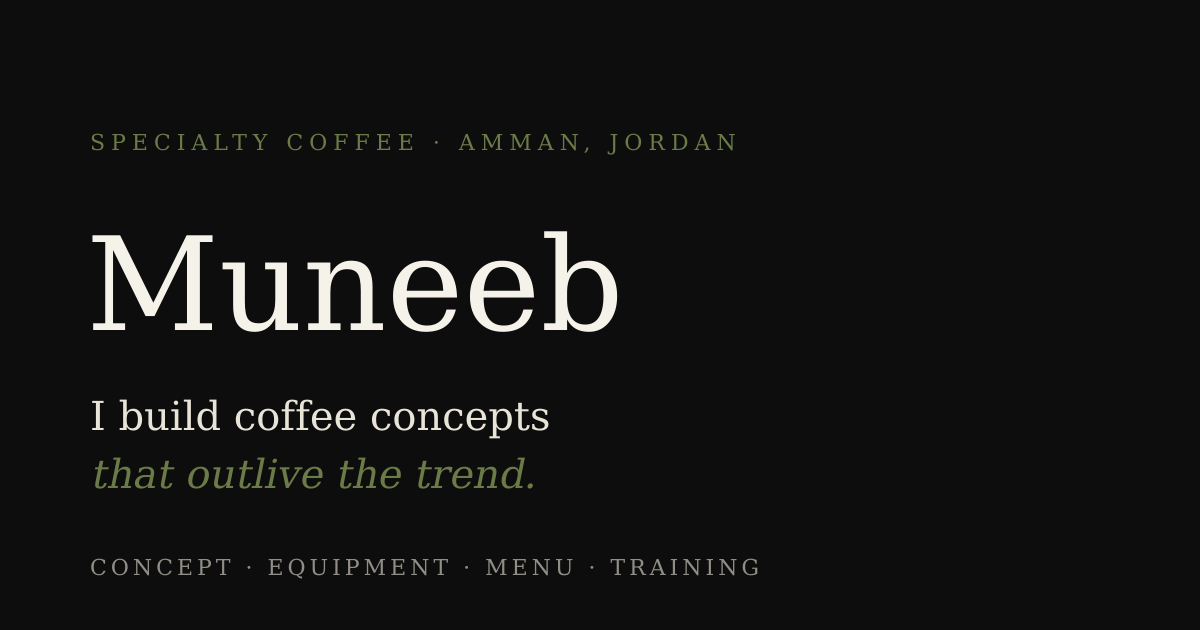
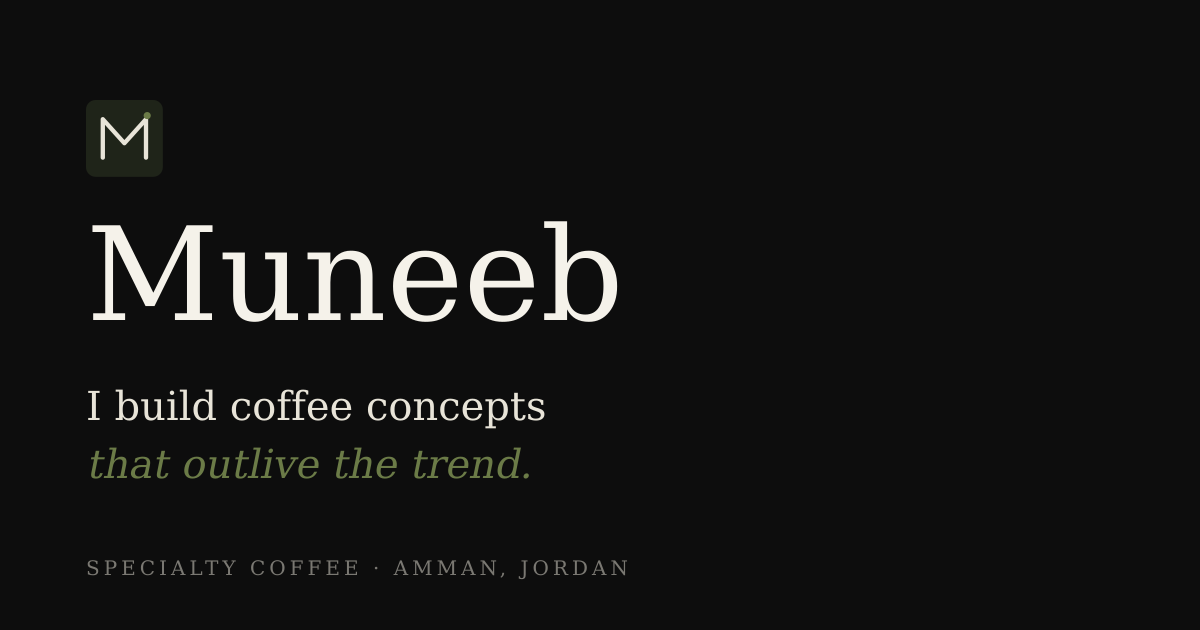
Signature moments: live status, scroll-pinned Approach, real identity
- StatusPill: live "At the bar / Replying in ~2h / Replying tomorrow"
  computed from Amman time, with a pulse on at-bar — the differentiator
- Approach: full sticky scroll-pinned narrative; 5 steps cross-fade as
  the section scrolls (Apple-style), with a deep-olive visual scene,
  big number, italic step title, dots, and a progress bar
- Wordmark + Monogram identity: custom drawn SVG mark (deep-olive
  rounded square, sand outline M, sage accent dot) paired with a
  "Munee[b]" wordmark where the final 'b' is sage italic
- Nav, favicon, and OG image all updated to use the new mark

https://claude.ai/code/session_01JqicGaHiKrR2BpaGBGhPka

diff --git a/components/Approach.tsx b/components/Approach.tsx
@@ -1,43 +1,161 @@
 'use client';
 
+import { useRef, useState } from 'react';
 import { useTranslations } from 'next-intl';
-import Reveal from './Reveal';
+import {
+  AnimatePresence,
+  motion,
+  useMotionValueEvent,
+  useScroll,
+  useTransform,
+} from 'framer-motion';
 
 const steps = ['concept', 'equipment', 'menu', 'training', 'launch'] as const;
+const EASE = [0.22, 1, 0.36, 1] as const;
 
 export default function Approach() {
   const t = useTranslations('approach');
+  const ref = useRef<HTMLDivElement>(null);
+  const { scrollYProgress } = useScroll({
+    target: ref,
+    offset: ['start start', 'end end'],
+  });
+  const [active, setActive] = useState(0);
+
+  useMotionValueEvent(scrollYProgress, 'change', (p) => {
+    const i = Math.min(
+      steps.length - 1,
+      Math.max(0, Math.floor(p * steps.length))
+    );
+    if (i !== active) setActive(i);
+  });
+
+  const progress = useTransform(scrollYProgress, [0, 1], ['0%', '100%']);
 
   return (
-    <section className="bg-bone py-24 md:py-32">
-      <div className="container-x">
-        <Reveal>
-          <p className="eyebrow mb-5">{t('eyebrow')}</p>
-          <h2 className="max-w-3xl font-serif text-h2 font-light text-charcoal">
-            {t('title')}{' '}
-            <span className="italic text-sage">{t('title_accent')}</span>
-          </h2>
-          <p className="mt-6 max-w-xl text-base leading-relaxed text-charcoal/70">
-            {t('intro')}
-          </p>
-        </Reveal>
+    <section
+      ref={ref}
+      className="relative bg-bone"
+      style={{ height: `${steps.length * 100}vh` }}
+    >
+      <div className="sticky top-0 flex h-screen items-center overflow-hidden">
+        <div className="container-x grid w-full items-center gap-10 md:grid-cols-12 md:gap-12">
+          {/* Text column */}
+          <div className="md:col-span-5">
+            <p className="eyebrow mb-5">{t('eyebrow')}</p>
+            <h2 className="font-serif text-h2 font-light text-charcoal">
+              {t('title')}{' '}
+              <span className="italic text-sage">{t('title_accent')}</span>
+            </h2>
+            <p className="mt-6 max-w-md text-base leading-relaxed text-charcoal/65">
+              {t('intro')}
+            </p>
 
-        <div className="mt-16 border-t border-charcoal/10">
-          {steps.map((step, i) => (
-            <Reveal key={step} delay={i * 0.06}>
-              <div className="group grid grid-cols-1 items-baseline gap-4 border-b border-charcoal/10 py-8 transition-colors duration-300 hover:bg-charcoal/[0.02] md:grid-cols-12 md:gap-8 md:py-10">
-                <span className="font-serif text-3xl font-light text-sage md:col-span-1 md:text-4xl">
-                  {String(i + 1).padStart(2, '0')}
-                </span>
-                <h3 className="font-serif text-2xl font-normal text-charcoal md:col-span-3 md:text-3xl">
-                  {t(`${step}_title`)}
-                </h3>
-                <p className="max-w-xl text-base leading-relaxed text-charcoal/70 md:col-span-8">
-                  {t(`${step}_desc`)}
-                </p>
+            <div className="relative mt-10 h-44 md:h-48">
+              <AnimatePresence mode="wait">
+                <motion.div
+                  key={active}
+                  className="absolute inset-0"
+                  initial={{ opacity: 0, y: 18 }}
+                  animate={{ opacity: 1, y: 0 }}
+                  exit={{ opacity: 0, y: -18 }}
+                  transition={{ duration: 0.45, ease: EASE }}
+                >
+                  <p className="font-sans text-[11px] uppercase tracking-eyebrow text-charcoal/40">
+                    {String(active + 1).padStart(2, '0')} /{' '}
+                    {String(steps.length).padStart(2, '0')}
+                  </p>
+                  <h3 className="mt-2 font-serif text-3xl font-normal text-charcoal md:text-4xl">
+                    {t(`${steps[active]}_title`)}
+                  </h3>
+                  <p className="mt-3 max-w-md text-base leading-relaxed text-charcoal/70">
+                    {t(`${steps[active]}_desc`)}
+                  </p>
+                </motion.div>
+              </AnimatePresence>
+            </div>
+
+            {/* Compact step list with active highlight */}
+            <ol className="mt-10 hidden gap-x-6 gap-y-2 md:flex md:flex-wrap">
+              {steps.map((step, i) => (
+                <li key={step}>
+                  <button
+                    onClick={() => {
+                      const el = ref.current;
+                      if (!el) return;
+                      const top =
+                        el.offsetTop + (el.offsetHeight * i) / steps.length;
+                      window.scrollTo({ top, behavior: 'smooth' });
+                    }}
+                    className={`font-sans text-xs uppercase tracking-eyebrow transition-colors ${
+                      active === i
+                        ? 'text-charcoal'
+                        : 'text-charcoal/35 hover:text-charcoal/60'
+                    }`}
+                  >
+                    {t(`${step}_title`)}
+                  </button>
+                </li>
+              ))}
+            </ol>
+          </div>
+
+          {/* Visual column */}
+          <div className="md:col-span-7">
+            <div className="relative mx-auto flex aspect-square w-full max-h-[60vh] items-center justify-center overflow-hidden bg-deep-olive md:max-h-[72vh]">
+              <span className="grain absolute inset-0" aria-hidden />
+
+              <AnimatePresence mode="popLayout">
+                <motion.span
+                  key={`num-${active}`}
+                  className="pointer-events-none absolute select-none font-serif font-light leading-none text-sand/[0.12]"
+                  style={{ fontSize: 'clamp(12rem, 32vw, 26rem)' }}
+                  initial={{ opacity: 0, scale: 1.06, y: 30 }}
+                  animate={{ opacity: 1, scale: 1, y: 0 }}
+                  exit={{ opacity: 0, scale: 0.96, y: -30 }}
+                  transition={{ duration: 0.7, ease: EASE }}
+                  aria-hidden
+                >
+                  {String(active + 1).padStart(2, '0')}
+                </motion.span>
+              </AnimatePresence>
+
+              <AnimatePresence mode="wait">
+                <motion.h3
+                  key={`t-${active}`}
+                  className="relative px-6 text-center font-serif font-light italic text-sage"
+                  style={{ fontSize: 'clamp(2rem, 4.5vw, 3.5rem)' }}
+                  initial={{ opacity: 0, y: 18 }}
+                  animate={{ opacity: 1, y: 0 }}
+                  exit={{ opacity: 0, y: -18 }}
+                  transition={{ duration: 0.55, ease: EASE, delay: 0.08 }}
+                >
+                  {t(`${steps[active]}_title`)}
+                </motion.h3>
+              </AnimatePresence>
+
+              {/* Vertical dots */}
+              <div className="absolute top-1/2 flex -translate-y-1/2 flex-col gap-3 ltr:right-4 rtl:left-4">
+                {steps.map((step, i) => (
+                  <span
+                    key={step}
+                    className={`block h-1.5 w-1.5 rounded-full transition-all duration-300 ${
+                      active === i
+                        ? 'h-2 w-2 bg-sage'
+                        : 'bg-sand/25'
+                    }`}
+                  />
+                ))}
               </div>
-            </Reveal>
-          ))}
+
+              {/* Bottom progress bar */}
+              <motion.span
+                className="absolute bottom-0 left-0 h-0.5 bg-sage rtl:left-auto rtl:right-0"
+                style={{ width: progress }}
+                aria-hidden
+              />
+            </div>
+          </div>
         </div>
       </div>
     </section>

diff --git a/components/StatusPill.tsx b/components/StatusPill.tsx
@@ -1,0 +1,55 @@
+'use client';
+
+import { useEffect, useState } from 'react';
+import { useTranslations } from 'next-intl';
+
+type Status = 'at_bar' | 'replying_soon' | 'replying_tomorrow';
+
+function ammanStatus(): Status {
+  // Amman = UTC+3 year-round (no DST since 2022)
+  const ammanHour = (new Date().getUTCHours() + 3) % 24;
+  if (ammanHour >= 9 && ammanHour < 14) return 'at_bar';
+  if (ammanHour >= 14 && ammanHour < 21) return 'replying_soon';
+  return 'replying_tomorrow';
+}
+
+export default function StatusPill() {
+  const t = useTranslations('status');
+  const [status, setStatus] = useState<Status | null>(null);
+
+  useEffect(() => {
+    setStatus(ammanStatus());
+    const id = setInterval(() => setStatus(ammanStatus()), 60_000);
+    return () => clearInterval(id);
+  }, []);
+
+  if (!status) {
+    // Reserve space, avoid layout shift
+    return <span className="inline-block h-7 min-w-[180px]" />;
+  }
+
+  const dotColor =
+    status === 'at_bar'
+      ? 'bg-sage'
+      : status === 'replying_soon'
+        ? 'bg-sage/70'
+        : 'bg-charcoal/35';
+
+  const pulses = status === 'at_bar';
+
+  return (
+    <span className="inline-flex items-center gap-2 border border-charcoal/15 bg-bone/70 px-3 py-1.5 font-sans text-[11px] tracking-wide text-charcoal/80 backdrop-blur-sm">
+      <span className="relative flex h-2 w-2">
+        {pulses && (
+          <span
+            className={`absolute inset-0 animate-ping rounded-full ${dotColor} opacity-70`}
+          />
+        )}
+        <span
+          className={`relative h-2 w-2 rounded-full ${dotColor}`}
+        />
+      </span>
+      {t(status)}
+    </span>
+  );
+}

diff --git a/components/Nav.tsx b/components/Nav.tsx
@@ -4,6 +4,7 @@ import { useEffect, useState } from 'react';
 import { useTranslations } from 'next-intl';
 import { AnimatePresence, motion, useScroll } from 'framer-motion';
 import LangToggle from './LangToggle';
+import Wordmark from './Wordmark';
 
 const links = [
   { id: 'work', key: 'work' },
@@ -59,13 +60,12 @@ export default function Nav() {
       }`}
     >
       <nav className="container-x flex h-16 items-center justify-between md:h-20">
-        <a href="#top" className="group flex items-center gap-2.5 text-charcoal">
-          <span className="flex h-7 w-7 items-center justify-center rounded-md bg-deep-olive font-serif text-base italic leading-none text-sage transition-transform duration-300 group-hover:-rotate-6">
-            M
-          </span>
-          <span className="font-serif text-xl font-normal tracking-tight">
-            Muneeb
-          </span>
+        <a
+          href="#top"
+          aria-label="Muneeb — home"
+          className="transition-opacity hover:opacity-80"
+        >
+          <Wordmark />
         </a>
 
         <div className="hidden items-center gap-8 md:flex">

diff --git a/components/Wordmark.tsx b/components/Wordmark.tsx
@@ -1,0 +1,42 @@
+export function Monogram({
+  className,
+}: {
+  className?: string;
+}) {
+  return (
+    <svg
+      viewBox="0 0 32 32"
+      className={className}
+      aria-hidden
+    >
+      <rect width="32" height="32" rx="4" fill="#1F2419" />
+      {/* M strokes — geometric serif silhouette */}
+      <path
+        d="M 7 24 L 7 8 L 16 18 L 25 8 L 25 24"
+        stroke="#E8E4D8"
+        strokeWidth="1.8"
+        fill="none"
+        strokeLinecap="round"
+        strokeLinejoin="round"
+      />
+      {/* Sage signature accent */}
+      <circle cx="25.5" cy="6.5" r="1.5" fill="#6B7B47" />
+    </svg>
+  );
+}
+
+export default function Wordmark({
+  className,
+}: {
+  className?: string;
+}) {
+  return (
+    <span className={`inline-flex items-center gap-2.5 leading-none ${className ?? ''}`}>
+      <Monogram className="h-7 w-7" />
+      <span className="font-serif text-xl font-normal tracking-[-0.01em] text-charcoal">
+        Munee
+        <span className="font-light italic text-sage">b</span>
+      </span>
+    </span>
+  );
+}

diff --git a/components/Hero.tsx b/components/Hero.tsx
@@ -4,6 +4,7 @@ import { useRef } from 'react';
 import { useTranslations } from 'next-intl';
 import { motion, useScroll, useTransform } from 'framer-motion';
 import Media from './Media';
+import StatusPill from './StatusPill';
 
 const EASE = [0.22, 1, 0.36, 1] as const;
 
@@ -56,6 +57,15 @@ export default function Hero() {
 
       <div className="container-x relative grid items-center gap-12 md:grid-cols-12">
         <div className="md:col-span-7">
+          <motion.div
+            initial={{ opacity: 0, y: 12 }}
+            animate={{ opacity: 1, y: 0 }}
+            transition={{ duration: 0.7, ease: EASE, delay: 0.05 }}
+            className="mb-5"
+          >
+            <StatusPill />
+          </motion.div>
+
           <motion.p
             className="eyebrow mb-7"
             initial={{ opacity: 0 }}
